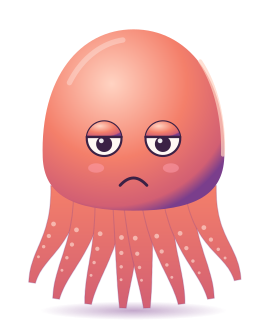
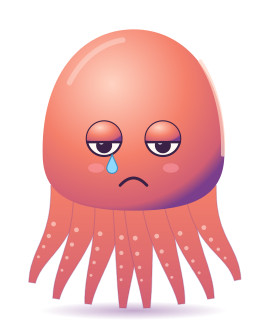
fix(octopilot): tidy the octopus mod after review
Cut the bubble's markdown at word and line boundaries with open markup closed,
and test it under node. Redraw only when shown state changes, keep the first
art frame opaque, time kitchen moods per event as feed.ts does, and ignore the
app-written gpui-kit.d.ts and jsconfig.json. Drop the unused 160 px PNGs.

Changed region(s): [[0.2996, 0.4062, 0.4794, 0.5625], [0.5393, 0.4062, 0.6891, 0.5]]

diff --git a/herdr-app/mods/octopilot-octopus/main.js b/herdr-app/mods/octopilot-octopus/main.js
@@ -1,13 +1,11 @@
-// The messenger as a reluctant octopus: a floating window with the octopus, a
-// speech bubble holding the orchestrator's last message and the kitchen's last
-// lines. Click the octopus to peek the messenger's terminal, the bubble to read
-// the whole message, – to fold the bubble, ✕ to close.
-// Props: { fixture?, dir?, state_dir?, overlay? }, or for the full-text dialog
-// { full: true, text, status }.
+// The messenger as an octopus: poses from the speech and kitchen state, and a bubble
+// with the last message, the kitchen log and the pan count. Props: { fixture?, dir?, state_dir?, overlay? }.
+// For the full-text dialog: { full: true, text, status, overlay }.
 
 import { View, div, image } from "gpui-kit";
 import { v_flex, h_flex, TextView } from "gpui-base";
 import { exec, readTextFile, run, theme, props, shared, home, window, openOverlay, closeOverlay, checking } from "herdr";
+import { clip } from "./clip.js";
 
 const OCTO_W = 125;
 const OCTO_H = 150;
@@ -15,18 +13,17 @@ const BUBBLE_W = 250;
 const FAST_MS = 2000;
 const SLOW_MS = 10000;
 const TALK_MS = 4000;
-const MOOD_S = 5;
 const DOZE_S = 600;
 const LOG_LINES = 4;
-const MAX_LINES = 6;
-const MAX_CHARS = 280;
 
 const WORD = { working: "working", blocked: "needs you", idle: "idle", done: "finished", offline: "offline", paused: "paused" };
 const DOT = { working: "working", blocked: "blocked", idle: "idle", done: "done", offline: "unknown", paused: "idle" };
-// The kitchen's mood names (scene.ts) as poses; only the first group shows for a while.
-const MOOD_POSE = { happy: "happy", serve: "happy", worried: "worried", sad: "sad", surprised: "surprised", flip: "working", pour: "working", busy: "working", sleep: "sleeping", doze: "doze", idle: "idle" };
-const TRANSIENT = new Set(["happy", "serve", "worried", "sad", "surprised"]);
-// Poses whose frames cross-fade back and forth: [frame names, cycle ms].
+// Kitchen moods (scene.ts) that show a pose for a while; the rest of the moods come from status.
+const MOOD_POSE = { happy: "happy", serve: "happy", worried: "worried", sad: "sad", surprised: "surprised", flip: "working", pour: "working", sleep: "sleeping" };
+// How long each event's mood shows, from feed.ts: by event kind, else by mood for a report.
+const KIND_MS = { tick: 2500, spawn: 2500, sent: 1500, request: 2000, cleanup: 3500, merged: 3500, pause: 2000, resume: 1500, round: 2000, reviewed: 2000, capped: 2500, feedback: 1500, reboot: 2000, decline: 1500, untrack: 1500, detach: 1500, track: 2000 };
+const MOOD_MS = { happy: 4000, worried: 3000, sad: 4500, surprised: 2000, serve: 3500, flip: 2000, pour: 2500, sleep: 2000 };
+// Poses whose second frame fades in and out over the first: [frame names, cycle ms].
 const FLIPS = {
   talking: [["talking-0", "talking-1"], 360],
   working: [["working-0", "working-1"], 1200],
@@ -47,25 +44,20 @@ function pick(prop, sharedKey, fallback) {
 const octopilotDir = () => pick("dir", "octopilot.dir", `${home()}/.dotfiles/ai/octopilot`);
 const stateDir = () => pick("state_dir", "octopilot.state_dir", `${home()}/.local/state/octopilot`);
 
+const artPath = (name) => `mods/octopilot-octopus/art/png/${name}-320.png`;
+
 // The art in mods/octopilot-octopus/art/png, 320 px tall, shown at OCTO_H.
 function art(name) {
-  return image(`mods/octopilot-octopus/art/png/${name}-320.png`).w(OCTO_W).h(OCTO_H).flex_none();
+  return image(artPath(name)).w(OCTO_W).h(OCTO_H).flex_none();
 }
 
-// Two poses cross-fading back and forth forever: native motion, no redraws.
-function flip(names, period) {
-  return div().relative().flex_none().w(OCTO_W).h(OCTO_H).children(
-    names.map((name, i) =>
-      image(`mods/octopilot-octopus/art/png/${name}-320.png`).absolute().top(0).left(0).w(OCTO_W).h(OCTO_H)
-        .loop("opacity", { from: i === 0 ? 1 : 0, to: i === 0 ? 0 : 1, period })));
-}
-
-// Long messages are cut to a few lines; the bubble opens the rest.
-function clip(text) {
-  const lines = text.split("\n");
-  if (lines.length <= MAX_LINES && text.length <= MAX_CHARS) return text;
-  const cut = lines.slice(0, MAX_LINES).join("\n").slice(0, MAX_CHARS).trimEnd();
-  return `${cut} …*more*`;
+// The first frame stays put; the second fades in and out over it, natively.
+function flip([first, second], period) {
+  return div().relative().flex_none().w(OCTO_W).h(OCTO_H).children([
+    image(artPath(first)).w(OCTO_W).h(OCTO_H),
+    image(artPath(second)).absolute().top(0).left(0).w(OCTO_W).h(OCTO_H)
+      .loop("opacity", { from: 0, to: 1, period }),
+  ]);
 }
 
 const pad = (n) => String(n).padStart(2, "0");
@@ -73,6 +65,8 @@ const clock = (at) => {
   const d = new Date(at * 1000);
   return `${pad(d.getHours())}:${pad(d.getMinutes())}`;
 };
+
+const eventMs = (ev) => KIND_MS[ev.kind] ?? MOOD_MS[ev.mood] ?? 0;
 
 export default class Octopus extends View {
   init(_props, cx) {
@@ -84,27 +78,41 @@ export default class Octopus extends View {
     this.talkGen = 0;
     this.sigh = false;
     this.collapsed = false;
+    this.sig = null;
+    this.shownMood = null;
     if (checking() || props()?.full) return;
     this.watch(cx);
     this.sighs(cx);
   }
 
   // Polls the messenger and the kitchen: fast while the window shows, slow while hidden.
+  // Redraws only when something shown changed, and once when a kitchen mood ends.
   watch(cx) {
     cx.spawn(async (cx) => {
       for (;;) {
         await this.poll(cx);
-        cx.notify();
+        const sig = this.signature();
+        const mood = this.activeMood();
+        if (sig !== this.sig || (this.shownMood && !mood)) cx.notify();
+        this.sig = sig;
+        this.shownMood = mood;
         await cx.sleep(window()?.visible === false ? SLOW_MS : FAST_MS);
       }
     });
   }
 
-  // An occasional sigh: the second idle frame for a moment.
+  signature() {
+    const h = this.view?.header;
+    return [this.seq, this.data?.status, this.data?.paused, this.error, this.newest()?.at,
+      h?.active, h?.max_active, h?.paused].join("|");
+  }
+
+  // An occasional sigh: the second idle frame for a moment, only while idle and shown.
   sighs(cx) {
     cx.spawn(async (cx) => {
       for (;;) {
         await cx.sleep(7000 + Math.random() * 5000);
+        if (window()?.visible === false || this.pose() !== "idle") continue;
         this.sigh = true;
         cx.notify();
         await cx.sleep(1600);
@@ -173,17 +181,24 @@ export default class Octopus extends View {
     return best;
   }
 
+  // The pose of the newest kitchen event, while its time is not up.
+  activeMood() {
+    const ev = this.newest();
+    if (!ev || !MOOD_POSE[ev.mood]) return null;
+    return Date.now() / 1000 - ev.at < eventMs(ev) / 1000 ? MOOD_POSE[ev.mood] : null;
+  }
+
   pose() {
     if (this.error || this.data?.status === "offline") return "offline";
     if (!this.data) return "idle";
     if (this.talking) return "talking";
     if (this.data.status === "blocked") return "blocked";
     if (this.data.paused || this.view?.header?.paused) return "sleeping";
-    const ev = this.newest();
-    const age = ev ? Date.now() / 1000 - ev.at : 0;
-    if (ev && TRANSIENT.has(ev.mood) && age < MOOD_S) return MOOD_POSE[ev.mood];
+    const mood = this.activeMood();
+    if (mood) return mood;
     if (this.data.status === "working") return "working";
-    if (ev && age > DOZE_S) return "doze";
+    const ev = this.newest();
+    if (ev && Date.now() / 1000 - ev.at > DOZE_S) return "doze";
     return "idle";
   }
 
@@ -238,12 +253,12 @@ export default class Octopus extends View {
     const muted = (text) => div().text_size(12).text_color(t.muted).child(text);
     if (this.error) return muted(`Can't reach the messenger: ${this.error}`);
     if (!d) return muted("Waiting for the messenger…");
-    if (!d.text) return muted("The messenger hasn't said anything yet.");
+    if (!d.text) return muted(d.status === "offline" ? "The messenger is offline." : "The messenger hasn't said anything yet.");
     return div().text_size(13).text_color(t.foreground)
       .child(TextView.markdown("octopilot-speech", clip(d.text)).raw_html(false));
   }
 
-  // The last kitchen lines, oldest dim, the newest green (good), red (bad) or plain.
+  // The last kitchen lines: older ones dim, the newest green (good), red (bad) or plain.
   logLines(t) {
     const lines = [...this.kitchen()].sort((a, b) => a.at - b.at).slice(-LOG_LINES);
     if (!lines.length) return null;
@@ -281,7 +296,7 @@ export default class Octopus extends View {
               h_flex().gap(2).items_center().children([
                 pans ? div().text_size(11).text_color(t.dim).child(pans) : null,
                 this.button(t, "fold", "–", (cx) => { this.collapsed = true; cx.notify(); }),
-                this.button(t, "close", "✕", () => closeOverlay(p.overlay)),
+                p.overlay ? this.button(t, "close", "✕", () => closeOverlay(p.overlay)) : null,
               ].filter(Boolean)),
             ]),
             this.bubbleBody(t),
@@ -293,10 +308,11 @@ export default class Octopus extends View {
   renderFull(p) {
     const t = theme();
     return v_flex().size_full().p(16).gap(10).bg(t.popover).children([
-      h_flex().justify_between().items_center().flex_none()
-        .child(div().text_size(13).font_semibold().text_color(t.foreground)
-          .child(`Messenger · ${WORD[p.status] ?? p.status ?? ""}`))
-        .child(this.button(t, "close", "✕", () => closeOverlay(p.overlay))),
+      h_flex().justify_between().items_center().flex_none().children([
+        div().text_size(13).font_semibold().text_color(t.foreground)
+          .child(`Messenger · ${WORD[p.status] ?? p.status ?? ""}`),
+        p.overlay ? this.button(t, "close", "✕", () => closeOverlay(p.overlay)) : null,
+      ].filter(Boolean)),
       div().id("speech-full").flex_1().overflow_y_scrollbar().text_size(13).text_color(t.foreground)
         .child(TextView.markdown("octopilot-speech-full", p.text ?? "").raw_html(false)),
     ]);

diff --git a/herdr-app/mods/octopilot-octopus/clip.js b/herdr-app/mods/octopilot-octopus/clip.js
@@ -1,0 +1,23 @@
+// Cuts a markdown message for the bubble at a word or line boundary, closing any
+// fence or emphasis the cut left open, so the rest still renders.
+export const MAX_LINES = 6;
+export const MAX_CHARS = 280;
+
+const count = (text, marker) => text.split(marker).length - 1;
+
+export function clip(text, maxLines = MAX_LINES, maxChars = MAX_CHARS) {
+  if (text.split("\n").length <= maxLines && text.length <= maxChars) return text;
+  let cut = text.split("\n").slice(0, maxLines).join("\n");
+  if (cut.length > maxChars) {
+    cut = cut.slice(0, maxChars);
+    // Back up to the last space when the cut landed inside a word.
+    const word = cut.search(/\s\S*$/);
+    if (word > maxChars / 2) cut = cut.slice(0, word);
+  }
+  cut = cut.trimEnd();
+  if (count(cut, "```") % 2) return `${cut}\n\`\`\`\n…*more*`;
+  for (const marker of ["`", "**", "*", "_"]) {
+    if (count(cut, marker) % 2) cut = cut.slice(0, cut.lastIndexOf(marker)).trimEnd();
+  }
+  return `${cut} …*more*`;
+}

diff --git a/herdr-app/mods/octopilot-octopus/art/make.py b/herdr-app/mods/octopilot-octopus/art/make.py
@@ -2,8 +2,7 @@
 """Draws the messenger octopus poses as SVG, one file per frame.
 
 `python3 make.py` rewrites art/svg/*.svg. `--png` also renders
-art/png/<name>-160.png and -320.png (160 and 320 px tall) with inkscape,
-or magick when inkscape is missing.
+art/png/<name>-320.png (320 px tall) with inkscape, or magick when inkscape is missing.
 """
 
 import math
@@ -40,17 +39,17 @@ FRAMES = {
                       ends={0: (18, 112), 7: (188, 92)}),
     "blocked-1": dict(lid=0, pupil=(-1.5, 0), pupil_r=3.5, mouth="o", alarm=True, dy=-1,
                       ends={0: (16, 116), 7: (184, 100)}),
-    "sleeping-0": dict(closed=True, mouth="flat", dy=0, z=[(150, 62, 9), (164, 46, 6)]),
-    "sleeping-1": dict(closed=True, mouth="flat", dy=-2, z=[(152, 54, 12), (168, 34, 8)]),
+    "sleeping-0": dict(closed=True, mouth="flat", dy=0, z=[(146, 66, 12), (164, 44, 9)]),
+    "sleeping-1": dict(closed=True, mouth="flat", dy=-2, z=[(148, 56, 16), (168, 30, 12)]),
     "offline-0": dict(closed=True, mouth="flat", palette="grey"),
     "happy-0": dict(eye="happy", mouth="smile", ends={0: (18, 176), 7: (182, 184)}),
     "happy-1": dict(eye="happy", mouth="smile", ends={0: (24, 164), 7: (176, 168)}, sparkle=True, dy=-2),
     "worried-0": dict(lid=0.15, pupil=(-1.5, -2), brows=True, mouth="wavy"),
     "worried-1": dict(lid=0.15, pupil=(-1.5, -2), brows=True, mouth="wavy", dy=-1, sweat=True),
-    "sad-0": dict(lid=0.45, pupil=(0, 4), mouth="frown_deep"),
-    "sad-1": dict(lid=0.45, pupil=(0, 4), mouth="frown_deep", tear=True, dy=-1),
-    "surprised-0": dict(lid=0, pupil_r=3.5, mouth="o_big", alarm=True),
-    "surprised-1": dict(lid=0, pupil=(0, -1), pupil_r=4.5, mouth="o_big", alarm=True, dy=-2),
+    "sad-0": dict(lid=0.6, pupil=(0, 5), mouth="frown_deep", tear=True),
+    "sad-1": dict(lid=0.6, pupil=(0, 5), mouth="frown_deep", tear=True, dy=-1),
+    "surprised-0": dict(lid=0, pupil_r=3.5, mouth="o_big", burst=True),
+    "surprised-1": dict(lid=0, pupil=(0, -1), pupil_r=4.5, mouth="o_big", burst=True, dy=-2),
     "doze-0": dict(closed=True, mouth="flat", dy=-1),
 }
 
@@ -154,6 +153,12 @@ def sparkle(p):
             f'stroke="{p["ink"]}" stroke-width=".6"/>')
 
 
+def burst(p):
+    # Pop lines round the head: the surprise mark, where blocked gets the "!".
+    return (f'<path d="M150 40 L143 34 M160 30 L157 21 M172 30 L178 22 M182 42 L190 38" fill="none" '
+            f'stroke="{p["ink"]}" stroke-width="2.2" stroke-linecap="round"/>')
+
+
 def sweat():
     return ('<path d="M150 56 C156 66 160 72 160 78 A10 10 0 0 1 140 78 C140 72 144 66 150 56Z" '
             'fill="#8fd8ff" stroke="#3a8fc0" stroke-width=".8"/>'
@@ -170,7 +175,7 @@ def zs(items, p):
     out = []
     for x, y, s in items:
         out.append(f'<path d="M{x} {y} h{s} l-{s} {s} h{s}" fill="none" stroke="{p["ink"]}" '
-                   f'stroke-width="2" stroke-linejoin="round" opacity=".75"/>')
+                   f'stroke-width="2.4" stroke-linejoin="round" opacity=".75"/>')
     return "".join(out)
 
 
@@ -206,6 +211,8 @@ def draw(frame):
         extras.append(sweat())
     if frame.get("alarm"):
         extras.append(alarm(p))
+    if frame.get("burst"):
+        extras.append(burst(p))
     if frame.get("z"):
         extras.append(zs(frame["z"], p))
     return "\n".join([
@@ -253,11 +260,9 @@ def main(argv):
     if "--png" in argv:
         os.makedirs(png_dir, exist_ok=True)
         for name in FRAMES:
-            svg = os.path.join(svg_dir, f"{name}.svg")
-            for height in (160, 320):
-                png = os.path.join(png_dir, f"{name}-{height}.png")
-                render(svg, png, height)
-                print(png)
+            png = os.path.join(png_dir, f"{name}-320.png")
+            render(os.path.join(svg_dir, f"{name}.svg"), png, 320)
+            print(png)
 
 
 if __name__ == "__main__":

diff --git a/herdr-app/mods/octopilot-octopus/README.md b/herdr-app/mods/octopilot-octopus/README.md
@@ -27,7 +27,7 @@ Props, all optional: `dir` (the octopilot code dir, default `~/.dotfiles/ai/octo
 the reason in the bubble), `happy`, `worried`, `sad`, `surprised` (kitchen moods, the
 newest event for 5 s) and `doze` (no kitchen event for 10 minutes).
 The art is `art/make.py`: `python3 art/make.py --png` rewrites `art/svg/` and renders
-`art/png/<pose>-<n>-{160,320}.png` (inkscape, or magick without it).
+`art/png/<pose>-<n>-320.png` (inkscape, or magick without it).
 
 ## Testing without the backend
 
@@ -37,3 +37,5 @@ sample per status and `fixtures/state/view.json` a kitchen. Kitchen moods only s
 while their event is fresh, so set `at` to the current epoch to see them.
 
 `herdr-app check` runs without polling (`checking()`).
+
+`clip.js` (the bubble's cut) has node tests: `node --test test/clip.test.mjs`.
